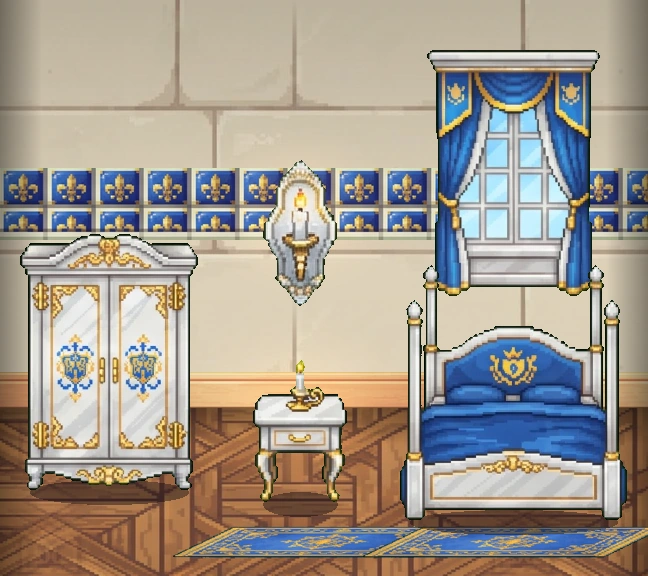
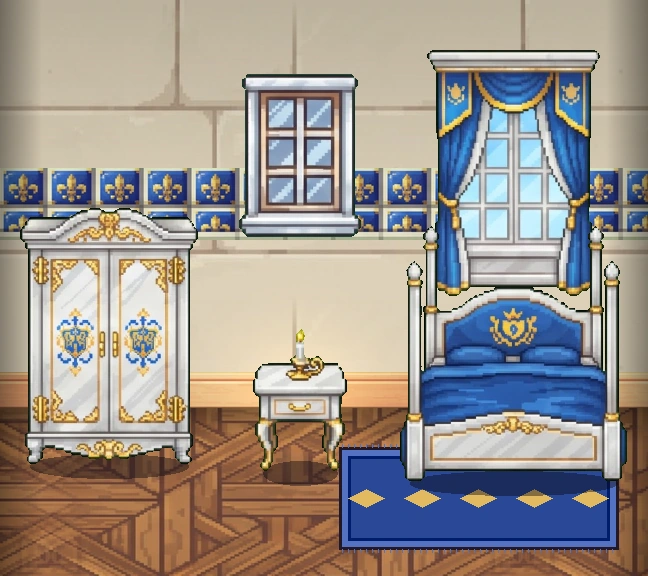
v3.40.1: arredo del Palazzo rivisto (mobili alle pareti, tappeti piatti blu e oro, niente lampioni in mezzo alle stanze) e corridoio con tappeto lungo e fiaccole/candele (Rocca e Palazzo)
- componi.py: appoggio anche per il Palazzo, candele a muro come fiaccole, orizzonte per stanza (corridoio con pavimento lungo), tappeto lungo
- il tappeto del corridoio della Rocca usava una riga calcolata con il muro sbagliato: ora è relativo al muro

Claude-Session: https://claude.ai/code/session_0172XSwwqtzYGYUizC6FgUXo

diff --git a/js/app.js b/js/app.js
@@ -48,7 +48,7 @@ const SKIN = { castello: { modulare: true, img: "img/castello.webp", w: 768, h: 
   file: { bagno: "bagno", camera: "camera", ripostiglio: "sgabuzzino", corridoio: "corridoio", cucina: "cucina", ingresso: "ingresso", soggiorno: "soggiorno", balcone: "balcone", cucina_soggiorno: "cucina_soggiorno", studio: "studio", lavanderia: "lavanderia", cantina: "cantina", giardino: "giardino" } },
   reggia: { modulare: true, img: "img/dimore/reggia/sezione.webp", w: 768, h: 1376, stanze: "img/dimore/reggia/stanze/",
   cornice: { dir: "img/dimore/reggia/", hd: true, tetto: [768, 234.5, 38], base: [768, 297, 43], muro: [121.5, 97.5], dx: [121.5, 97.5], area: [121.5, 646.5], fondo: "#d9d3e0", cielo: "#111b40" },
-  tessere: { dir: "img/dimore/reggia/tessere/", dim: {"bagno":[648,576],"balcone":[312,576],"camera":[648,576],"cantina":[768,576],"corridoio":[336,576],"cucina":[528,576],"cucina_soggiorno":[1056,576],"giardino":[744,576],"ingresso":[528,576],"lavanderia":[768,576],"ripostiglio":[528,576],"soggiorno":[720,576],"studio":[720,576],"terrazzo":[744,576]}, tipi: ["bagno", "camera", "ripostiglio", "corridoio", "cucina", "ingresso", "soggiorno", "balcone", "cucina_soggiorno", "studio", "terrazzo", "giardino", "cantina"] },
+  tessere: { dir: "img/dimore/reggia/tessere/", dim: {"bagno":[648,576],"balcone":[360,576],"camera":[648,576],"cantina":[768,576],"corridoio":[336,576],"cucina":[528,576],"cucina_soggiorno":[1056,576],"giardino":[744,576],"ingresso":[528,576],"lavanderia":[768,576],"ripostiglio":[528,576],"soggiorno":[720,576],"studio":[720,576],"terrazzo":[744,576]}, tipi: ["bagno", "camera", "ripostiglio", "corridoio", "cucina", "ingresso", "soggiorno", "balcone", "cucina_soggiorno", "studio", "terrazzo", "giardino", "cantina"] },
   file: { bagno: "bagno", camera: "camera", ripostiglio: "sgabuzzino", corridoio: "corridoio", cucina: "cucina", ingresso: "ingresso", soggiorno: "soggiorno", balcone: "balcone", cucina_soggiorno: "cucina_soggiorno", studio: "studio", lavanderia: "lavanderia", cantina: "cantina", giardino: "giardino", terrazzo: "terrazzo" } } };
 /* Lo stesso nelle viste delle singole stanze (immagini 720×676, 720×706 il corridoio): il pavimento è un rombo, i piedi stanno nella parte centrale. */
 const PIANI_STANZA = {
@@ -109,7 +109,7 @@ const LIVELLI_PRODOTTO = ["pieno", "metà", "quasi finito", "finito"];
 /* Un prodotto finito senza confezioni di scorta sparisce dallo scaffale: resta solo nella lista della spesa, e torna quando lo compri. */
 const sulloScaffale = p => !(p.livello === "finito" && !((p.scorta || 0) > 0));
 const XP_SOGLIE = [0, 200, 450, 750, 1100, 1500, 2000];
-const VERSIONE_APP = "3.40.0";
+const VERSIONE_APP = "3.40.1";
 const LV_ANIMALE = 2; /* dal livello 2 il primo animale è un regalo; gli altri si comprano con le monete */
 const SBLOCCHI = ["personaggio base", "il tuo primo animale, in regalo", "cappelli e accessori", "segni particolari", "accessori per animali", "animali fantasy", "oggetti rari"];
 const CAT = {

diff --git a/sw.js b/sw.js
@@ -1,6 +1,6 @@
 /* Our little world · service worker
    Tiene in cache la "scocca" dell'app così si apre subito; i dati arrivano sempre freschi da Supabase. */
-const VERSIONE = "olw-v3.40.0";
+const VERSIONE = "olw-v3.40.1";
 const SCOCCA = ["./", "index.html", "css/style.css", "js/store.js", "js/sprite.js", "js/csv.js", "js/ampolle.js", "js/app.js", "config.js", "manifest.webmanifest", "icons/icon-192.png", "icons/icon-512.png", "img/castello.webp", "img/porta.png", "img/porta-sporco1.png", "img/porta-sporco2.png", "img/porta-sporco3.png"];
 
 self.addEventListener("install", e => {

diff --git a/tools/dimore/modulare/componi.py b/tools/dimore/modulare/componi.py
@@ -174,6 +174,7 @@ def ingrandisci(im):
 
 
 def pezzo(nome):
+    if nome == "fiaccola" and CFG and CFG.get("fiaccola_pezzo"): nome = CFG["fiaccola_pezzo"]      # candela a muro al posto della fiaccola
     if isinstance(nome, tuple):                  # gruppo: pezzi affiancati (sedia-tavolo-sedia, scopa e secchio…)
         ps = [carica(f"pezzi/{n}.png") for n in nome]
         g = Image.new("RGBA", (sum(p.width for p in ps) + (len(ps) - 1) * Q, max(p.height for p in ps))); x = 0
@@ -384,11 +385,23 @@ if os.environ.get("RIF", "1") == "1":
     STANZE_CASTELLO["bagno"]["tappeto"] = dict(sotto="bagno_1", extra=-10, dy=8, prof=12, col=MALVA)
     STANZE_CASTELLO["cucina_soggiorno"]["tappeto"] = dict(sotto="soggiorno_1", extra=26, dy=-5, prof=24, col=VINO)
     # corridoio: niente mobili, solo un tappeto lungo e due fiaccole
-    STANZE_CASTELLO["corridoio"].update(pav_mobili=[], appesi=[], vuota=True, fiaccole_bordi=True, fiaccola_cima=20, tappeto=dict(y0=MURO + 12, prof=26, meno=22, col=VINO))
+    STANZE_CASTELLO["corridoio"].update(muro_riga=38, pav_mobili=[], appesi=[], vuota=True, fiaccole_bordi=True, fiaccola_cima=9, tappeto=dict(y0=4, rel=True, fondo=5, larg=22, lungo=True, col=VINO, oro=(200, 160, 120)))
     # balcone: vasi e lanterna lungo la balaustra
     STANZE_CASTELLO["balcone"] = dict(STANZE_CASTELLO["balcone"], pav_g=CIOTTOLI, pav_mobili=[("balcone_1", 84, 3), ("balcone_7", 84, 5), ("balcone_2", 84, 2)], appesi=[])
     STANZE_CASTELLO["terrazzo"] = dict(STANZE_CASTELLO["terrazzo"], pav_g=CIOTTOLI, appesi=[])
     RIEMPI_CASTELLO["pav"]["balcone"] = ["balcone_1", "balcone_2", "giardino_6"]
+    # Palazzo d'Argentaluna: mobili alle pareti, tappeti blu e oro piatti, candele a muro; niente lampioni in mezzo alle stanze
+    DIMORE["reggia"]["appoggio"] = True; DIMORE["reggia"]["fiaccola_pezzo"] = "corridoio_5"
+    BLU, ORO = (42, 72, 150), (226, 186, 98)
+    STANZE_REGGIA["soggiorno"]["tappeto"] = dict(sotto="soggiorno_1", extra=26, dy=-6, prof=17, col=BLU, oro=ORO)
+    STANZE_REGGIA["cucina_soggiorno"]["tappeto"] = dict(sotto="soggiorno_1", extra=26, dy=-6, prof=17, col=BLU, oro=ORO)
+    STANZE_REGGIA["camera"]["tappeto"] = dict(sotto="camera_1", extra=20, dy=-6, prof=17, col=BLU, oro=ORO)
+    STANZE_REGGIA["ingresso"]["tappeto"] = dict(sotto="ingresso_1", extra=-8, dy=3, prof=13, col=BLU, oro=ORO)
+    STANZE_REGGIA["studio"]["tappeto"] = dict(sotto=("studio_1", "studio_2"), extra=14, dy=-5, prof=17, col=BLU, oro=ORO)
+    STANZE_REGGIA["corridoio"].update(muro_riga=40, pav_mobili=[], appesi=[], vuota=True, fiaccole=2, fiaccole_bordi=True, fiaccola_cima=8,
+                                      tappeto=dict(y0=4, rel=True, fondo=-4, larg=22, lungo=True, col=BLU, oro=ORO))
+    STANZE_REGGIA["giardino"]["libero"] = True
+    RIEMPI_REGGIA["riserva_pav"] = ["balcone_1", "corridoio_3"]
 
 
 def usa(dimora):
@@ -450,11 +463,11 @@ def piede(k, b):
     """Riga dei piedi di un mobile. Senza CFG['appoggio'] resta quella della ricetta."""
     if not CFG.get("appoggio"): return b
     n = k[0] if isinstance(k, tuple) else k
-    if n in CENTRO: return MURO + 26
+    if n in CENTRO: return MURO + round(.62 * (H - MURO))
     return MURO + 2 + .55 * max(b - 68, 2)
 
 
-def tappeto_piatto(img, cx, y0, w, prof, col=(108, 78, 112)):
+def tappeto_piatto(img, cx, y0, w, prof, col=(108, 78, 112), oro=None, lungo=False):
     """Tappeto steso a terra: rettangolo con bordo, fascia e motivo, disegnato in alta risoluzione (non è un mobile in piedi)."""
     d = ImageDraw.Draw(img); g = max(2, Q // 2)
     a_, b_ = max(cx - w / 2, 5), min(cx + w / 2, img.width / Q - 5)      # mai oltre le pareti della stanza
@@ -464,20 +477,30 @@ def tappeto_piatto(img, cx, y0, w, prof, col=(108, 78, 112)):
     d.rectangle((x0 + g, ya + g, x1 - g, yb - g), fill=chiaro + (255,))
     d.rectangle((x0 + 3 * g, ya + 3 * g, x1 - 3 * g, yb - 3 * g), fill=scuro + (255,))
     d.rectangle((x0 + 4 * g, ya + 4 * g, x1 - 4 * g, yb - 4 * g), fill=col + (255,))
-    cy = (ya + yb) // 2; n = max(1, int((x1 - x0) // (S(9))))
-    for i in range(n):                                   # rombi lungo il centro
-        mx = x0 + (i + .5) * (x1 - x0) / n; r = min(g * 3, (yb - ya) // 4)
-        d.polygon([(mx - 2 * r, cy), (mx, cy - r), (mx + 2 * r, cy), (mx, cy + r)], fill=chiaro + (255,))
+    cy = (ya + yb) // 2; n = max(1, int((x1 - x0) // (S(9)))); mot = tuple(oro) if oro else chiaro
+    if lungo:                                            # tappeto lungo: rombi lungo l'asse verticale
+        n = max(1, int((yb - ya) // S(11))); mx = (x0 + x1) // 2; r = min(g * 3, (x1 - x0) // 5)
+        d.rectangle((x0 + 5 * g, ya + 5 * g, x1 - 5 * g, yb - 5 * g), outline=mot + (255,), width=max(1, g // 2)) if oro else None
+        for i in range(n):
+            my = ya + (i + .5) * (yb - ya) / n
+            d.polygon([(mx - r, my), (mx, my - 2 * r), (mx + r, my), (mx, my + 2 * r)], fill=mot + (255,))
+    else:
+        for i in range(n):                               # rombi lungo il centro
+            mx = x0 + (i + .5) * (x1 - x0) / n; r = min(g * 3, (yb - ya) // 4)
+            d.polygon([(mx - 2 * r, cy), (mx, cy - r), (mx + 2 * r, cy), (mx, cy + r)], fill=mot + (255,))
     for xx in range(x0 + g, x1, 2 * g):                  # frange sui lati corti
         d.line((xx, ya - g, xx, ya), fill=chiaro + (255,), width=1); d.line((xx, yb, xx, yb + g), fill=chiaro + (255,), width=1)
 
 
 def stanza(nome, W):
     """(immagine, posti). posti = {"t": [(cx, base)], "p": [(cx, cima)]} in pixel del disegno."""
+    global MURO
     r = CFG["stanze"][nome]; rie = CFG["rie"]; LUCI = rie["luci"]
+    MURO = int(os.environ.get("MURO", r.get("muro_riga", CFG.get("muro_riga", 68))))      # ogni stanza può avere il suo orizzonte (corridoio più profondo)
     img = sfondo(W, r)
     lay = disponi(W, r["pav_mobili"])
-    if CFG.get("appoggio") and r.get("bordo") != "siepe": lay = [(k, cx, piede(k, b), w) for k, cx, b, w in lay]
+    appog = CFG.get("appoggio") and r.get("bordo") != "siepe" and not r.get("libero")
+    if appog: lay = [(k, cx, piede(k, b), w) for k, cx, b, w in lay]
     pos = {k: (cx, b) for k, cx, b, _ in lay if k != "R"}
     posti = {"t": [(round(cx), b) for k, cx, b, _ in lay if k == "R"], "p": [(round(cx), CIMA_DIPINTO) for k, cx, b, _ in lay if k == "R"]}
     piani = [(cx - w / 2, cx + w / 2) for k, cx, b, w in lay]
@@ -514,7 +537,7 @@ def stanza(nome, W):
     presenti = {k for k, *_ in lay if isinstance(k, str)} | {p for p, *_ in appesi}
     ris = rie["riserva_pav"][:]; random.Random(sum(map(ord, nome))).shuffle(ris)
     extra = riempi_pav([(p, 84 + k % 3 * 2) for k, p in enumerate(rie["pav"][nome] + [x for x in ris if x not in rie["pav"][nome]])]) if not r.get("vuota") else []
-    if CFG.get("appoggio") and r.get("bordo") != "siepe": extra = [(p, cx, piede(p, b)) for p, cx, b in extra]
+    if appog: extra = [(p, cx, piede(p, b)) for p, cx, b in extra]
     for p, cx, b in extra:
         piani.append((cx - pezzo(p).width / 2, cx + pezzo(p).width / 2))
         top = b - pezzo(p).height; sl = slice(max(0, int(cx - pezzo(p).width / 2)), min(W, int(cx + pezzo(p).width / 2) + 1))
@@ -572,15 +595,17 @@ def stanza(nome, W):
         if tp.get("sotto") is not None:
             if tp["sotto"] in pos:
                 lw = [w for k, cx, b, w in lay if k == tp["sotto"]][0]; cx, b = pos[tp["sotto"]]
-                tappeto_piatto(img, cx, b + tp.get("dy", -4), lw + tp.get("extra", 12), tp.get("prof", 20), tp.get("col", (108, 78, 112)))
+                tappeto_piatto(img, cx, b + tp.get("dy", -4), lw + tp.get("extra", 12), tp.get("prof", 20), tp.get("col", (108, 78, 112)), tp.get("oro"))
         else:
-            tappeto_piatto(img, W * tp.get("cx", .5), tp["y0"], W - tp.get("meno", 14), tp.get("prof", 22), tp.get("col", (108, 78, 112)))
+            y0 = MURO + tp["y0"] if tp.get("rel") else tp["y0"]            # rel: la riga è misurata dal muro (MURO cambia con la dimora)
+            prof = H - y0 - tp.get("fondo", 2) if tp.get("rel") else tp.get("prof", 22)
+            tappeto_piatto(img, W * tp.get("cx", .5), y0, tp.get("larg") or W - tp.get("meno", 14), prof, tp.get("col", (108, 78, 112)), tp.get("oro"), tp.get("lungo", False))
     for p, cx, cima in appesi + deco: appendi(img, pezzo(p), cx, cima)
     for p, cx, b in sorted(extra, key=lambda e: e[2]): appoggia(img, pezzo(p), cx, b)
     for k, cx, b, _ in lay:
         if k != "R": appoggia(img, pezzo(k), cx, b)
     for p, sopra, base in r.get("davanti", []):
-        if sopra in pos and not (CFG.get("appoggio") and p == "ingresso_5"): appoggia(img, pezzo(p), pos[sopra][0], piede(p, base) if CFG.get("appoggio") else base, ombra=False)
+        if sopra in pos and not (CFG.get("appoggio") and p == "ingresso_5"): appoggia(img, pezzo(p), pos[sopra][0], piede(p, base) if CFG.get("appoggio") and not r.get("libero") else base, ombra=False)
     return img, posti
 
 
